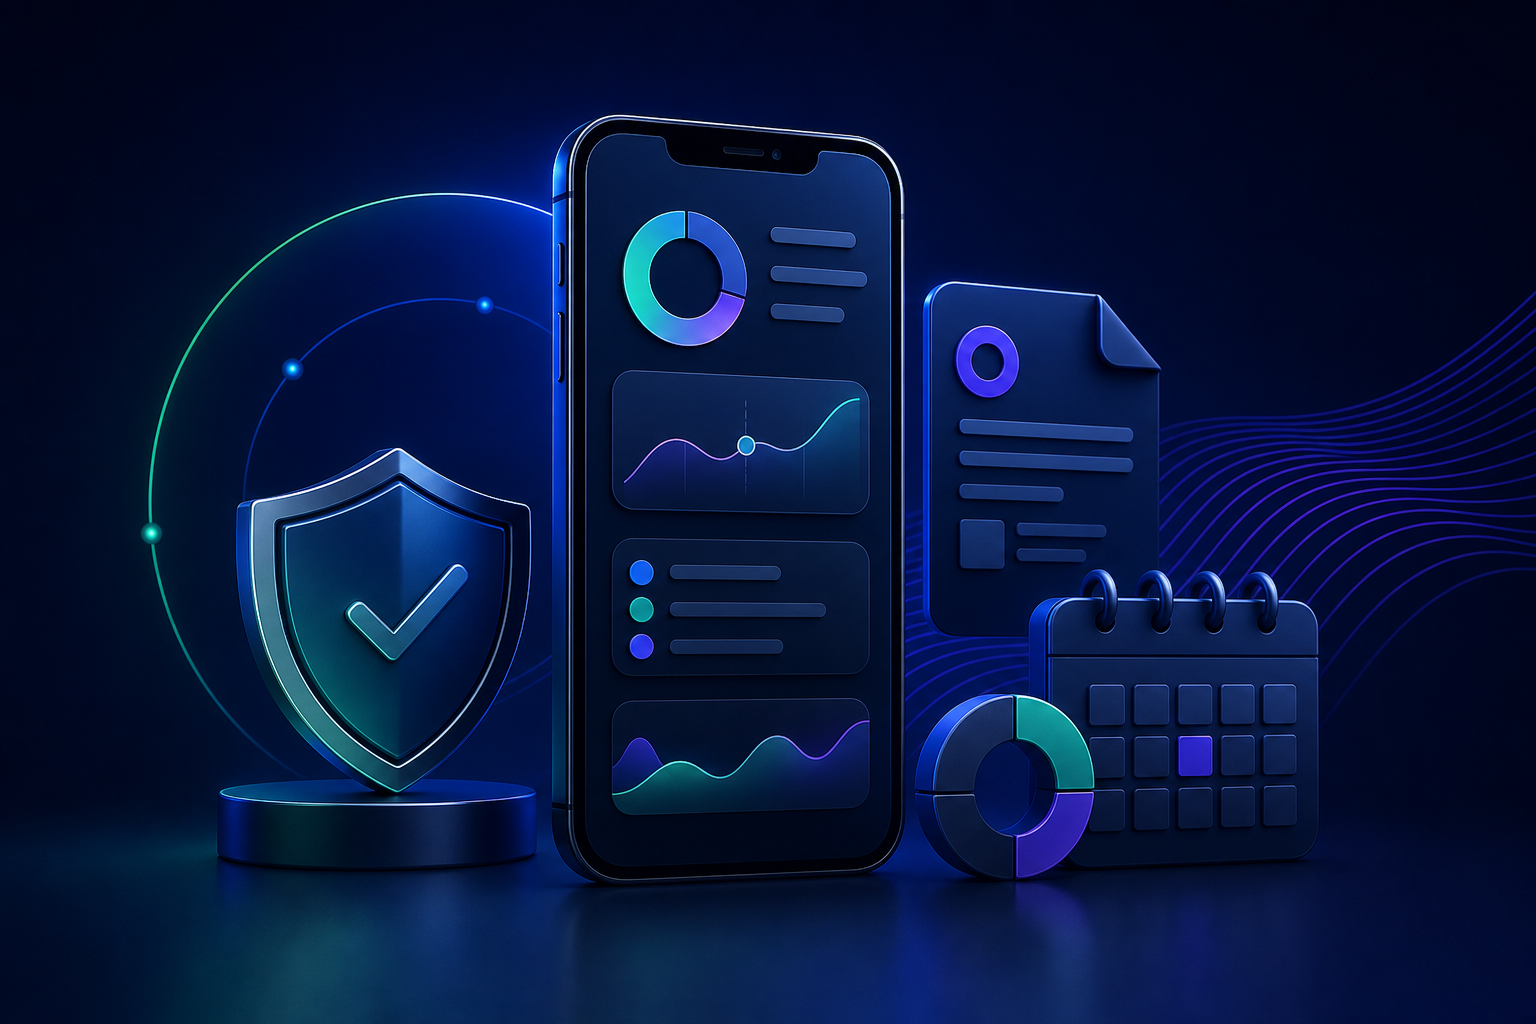
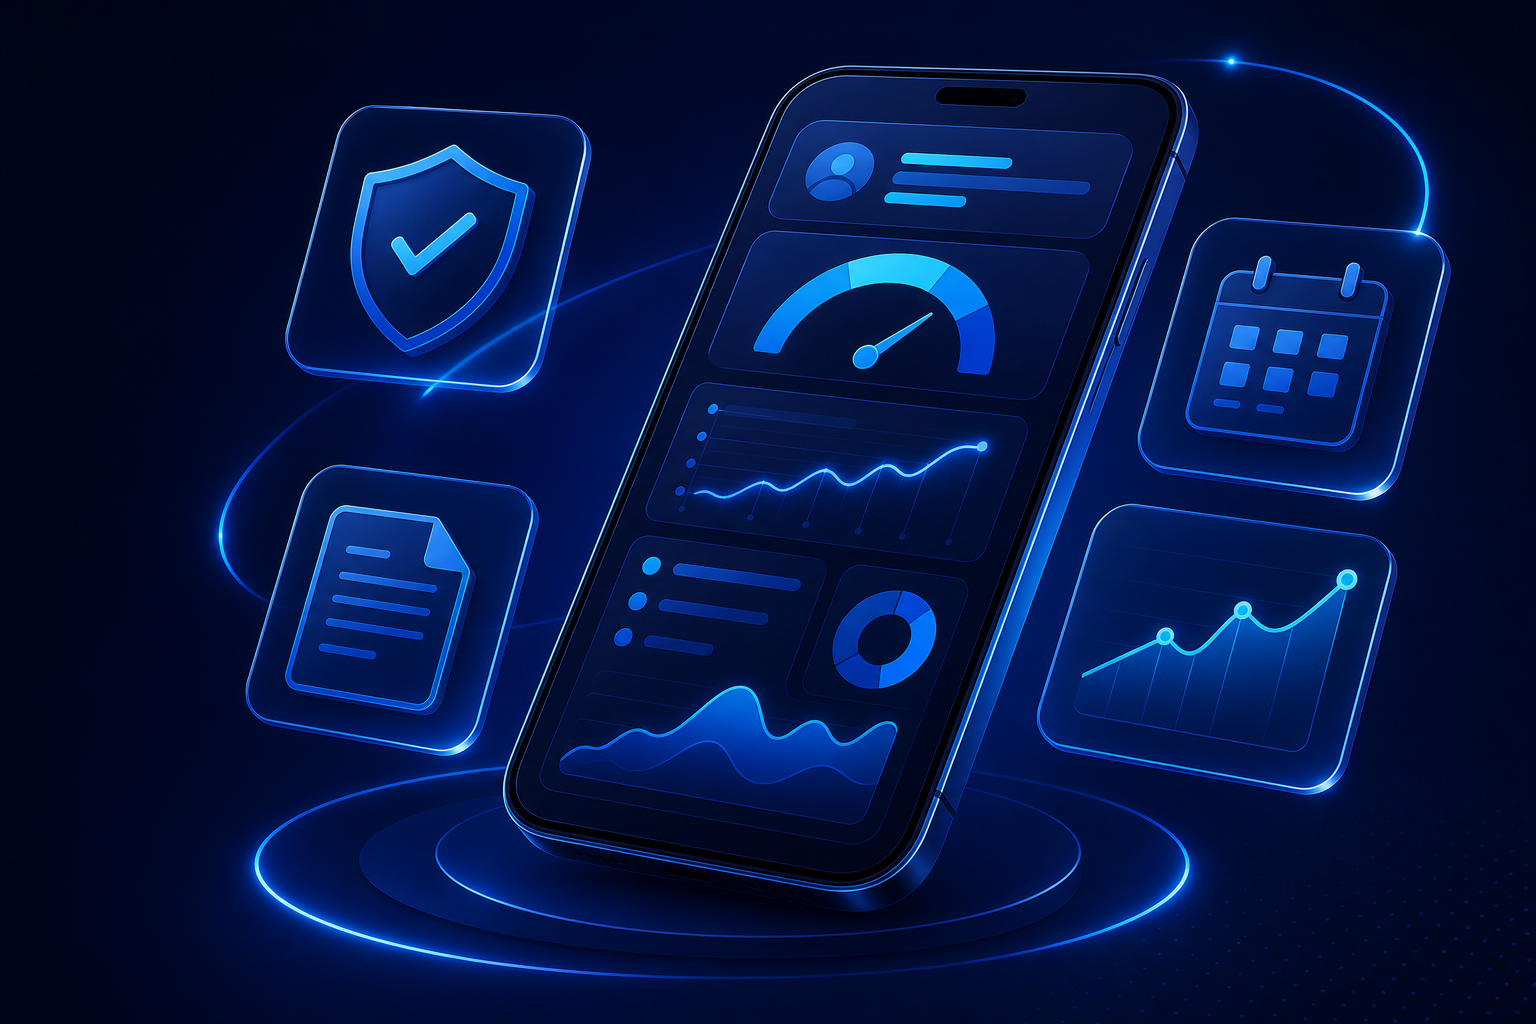
fatia 7a correção da tela

diff --git a/agilbank-frontend/public/banco/indique-ganhe.html b/agilbank-frontend/public/banco/indique-ganhe.html
@@ -101,6 +101,62 @@
       padding: 12px 12px calc(28px + env(safe-area-inset-bottom, 0px));
     }
 
+    .ig-cover {
+      position: relative;
+      width: 100%;
+      min-height: calc(100dvh - 70px);
+      display: flex;
+      align-items: center;
+      justify-content: center;
+      padding: 0 0 12px;
+    }
+
+    .ig-cover__button {
+      width: 100%;
+      border: 0;
+      padding: 0;
+      border-radius: 20px;
+      background: #070716;
+      overflow: hidden;
+      box-shadow: 0 16px 36px rgba(29, 8, 76, 0.28);
+      cursor: pointer;
+      line-height: 0;
+      -webkit-tap-highlight-color: rgba(159, 82, 255, 0.18);
+    }
+
+    .ig-cover__button:focus-visible {
+      outline: 3px solid rgba(159, 82, 255, 0.78);
+      outline-offset: 3px;
+    }
+
+    .ig-cover__image {
+      display: block;
+      width: 100%;
+      max-height: calc(100dvh - 92px);
+      object-fit: contain;
+      background: #070716;
+    }
+
+    .ig-cover__hint {
+      position: absolute;
+      left: 50%;
+      bottom: 22px;
+      transform: translateX(-50%);
+      display: inline-flex;
+      align-items: center;
+      gap: 8px;
+      min-height: 34px;
+      padding: 8px 12px;
+      border-radius: 999px;
+      background: rgba(255, 255, 255, 0.94);
+      color: #2d174f;
+      font-size: 0.78rem;
+      font-weight: 800;
+      box-shadow: 0 8px 20px rgba(0, 0, 0, 0.22);
+      pointer-events: none;
+      white-space: nowrap;
+    }
+
     .ig-hero {
       position: relative;
       overflow: hidden;
@@ -351,14 +407,14 @@
       color: #c47e00;
     }
 
+    .ig-share-panel {
+      scroll-margin-top: 76px;
+    }
+
     .ig-actions {
-      position: sticky;
-      bottom: 0;
       display: grid;
       gap: 8px;
-      margin: 14px -12px calc(-28px - env(safe-area-inset-bottom, 0px));
-      padding: 12px 12px calc(12px + env(safe-area-inset-bottom, 0px));
-      background: linear-gradient(180deg, rgba(237, 242, 247, 0), rgba(237, 242, 247, 0.96) 24%, #edf2f7 100%);
+      margin-top: 12px;
     }
 
     .ig-button {
@@ -417,7 +473,6 @@
     @media (min-width: 430px) {
       .ig-main { padding-left: 16px; padding-right: 16px; }
       .ig-title { font-size: 1.55rem; }
-      .ig-actions { margin-left: -16px; margin-right: -16px; padding-left: 16px; padding-right: 16px; }
     }
   </style>
 </head>
@@ -435,6 +490,21 @@
     </header>
 
     <main class="ig-main">
+      <section class="ig-cover" aria-label="Convite Indique e Ganhe">
+        <button type="button" class="ig-cover__button" id="igCoverBtn" aria-label="Abrir tela de compartilhamento do Indique e Ganhe">
+          <img
+            class="ig-cover__image"
+            src="img/indique-ganhe-story.png?v=20260518"
+            alt="Indique e ganhe. Convide seus amigos e receba recompensas a cada indicação válida."
+            fetchpriority="high"
+            decoding="async">
+        </button>
+        <span class="ig-cover__hint">
+          <i class="fas fa-hand-pointer" aria-hidden="true"></i>
+          Toque para compartilhar
+        </span>
+      </section>
+
       <section class="ig-hero" aria-label="Indique amigos para o AgilBank">
         <img
           class="ig-hero__image"
@@ -512,7 +582,7 @@
         </div>
       </section>
 
-      <section class="ig-panel" aria-labelledby="igStatusTitle">
+      <section class="ig-panel ig-share-panel" id="igSharePanel" aria-labelledby="igStatusTitle">
         <h2 class="ig-section-title" id="igStatusTitle">Status do convite</h2>
         <div class="ig-status">
           <i class="fas fa-circle-info" aria-hidden="true"></i>
@@ -583,6 +653,15 @@
       document.getElementById('igBack').addEventListener('click', function () {
         if (window.history.length > 1) window.history.back();
         else window.location.href = 'index.html';
+      });
+
+      document.getElementById('igCoverBtn').addEventListener('click', function () {
+        var panel = document.getElementById('igSharePanel');
+        if (panel) panel.scrollIntoView({ behavior: 'smooth', block: 'start' });
+        window.setTimeout(function () {
+          var share = document.getElementById('igShareBtn');
+          if (share) share.focus({ preventScroll: true });
+        }, 420);
       });
 
       document.getElementById('igShareBtn').addEventListener('click', function () {

diff --git a/agilbank-frontend/public/banco/css/style.consignado-fgts.css b/agilbank-frontend/public/banco/css/style.consignado-fgts.css
@@ -1,13 +1,18 @@
 :root {
-  --ab-bg: #121212;
-  --ab-panel: #1b1b1e;
-  --ab-panel-2: #242428;
-  --ab-line: #36363a;
-  --ab-text: #f4f4f7;
-  --ab-muted: #b9b9c0;
-  --ab-orange: #f57c00;
-  --ab-orange-2: #ff8a00;
-  --ab-disabled: #3a3840;
+  /* Paleta AgilBank / FATIA 7A — visual azul (sem laranja dominante) */
+  --ab-bg: #0a1628;
+  --ab-panel: #0f1f35;
+  --ab-panel-2: #152a45;
+  --ab-line: rgba(56, 189, 248, 0.18);
+  --ab-text: #f1f5f9;
+  --ab-muted: #64748b;
+  --ab-primary: #2563eb;
+  --ab-primary-2: #1e63ff;
+  --ab-cyan: #38bdf8;
+  --ab-soft: #eaf1ff;
+  --ab-ink: #102033;
+  --ab-green-accent: #22c55e;
+  --ab-disabled: #334155;
 }
 
 * {
@@ -17,7 +22,7 @@
 body.ab-fgts-page {
   margin: 0;
   min-height: 100vh;
-  background: var(--ab-bg);
+  background: linear-gradient(180deg, var(--ab-bg) 0%, #060d18 100%);
   color: var(--ab-text);
   font-family: Arial, Helvetica, sans-serif;
 }
@@ -44,8 +49,8 @@ input {
   align-items: center;
   gap: 8px;
   padding: 12px 18px;
-  background: #1a1a1d;
-  border-bottom: 1px solid rgba(255, 255, 255, 0.04);
+  background: linear-gradient(90deg, #0a1628 0%, #0f2140 50%, #0a1628 100%);
+  border-bottom: 1px solid rgba(56, 189, 248, 0.12);
 }
 
 .ab-fgts-topbar h1 {
@@ -62,7 +67,7 @@ input {
   height: 44px;
   border: 0;
   background: transparent;
-  color: var(--ab-orange);
+  color: var(--ab-cyan);
   font-size: 34px;
   line-height: 1;
   cursor: pointer;
@@ -106,7 +111,7 @@ input {
 }
 
 .ab-fgts-tab.is-active {
-  color: var(--ab-orange);
+  color: var(--ab-cyan);
 }
 
 .ab-fgts-tab.is-active::after {
@@ -117,7 +122,7 @@ input {
   bottom: -1px;
   height: 4px;
   border-radius: 999px;
-  background: var(--ab-orange);
+  background: linear-gradient(90deg, var(--ab-primary-2), var(--ab-cyan));
 }
 
 .ab-fgts-product-switch {
@@ -154,8 +159,8 @@ input {
 }
 
 .ab-fgts-product.is-active {
-  border-color: rgba(245, 124, 0, 0.8);
-  box-shadow: inset 0 0 0 1px rgba(245, 124, 0, 0.24);
+  border-color: rgba(37, 99, 235, 0.85);
+  box-shadow: inset 0 0 0 1px rgba(56, 189, 248, 0.28);
 }
 
 .ab-fgts-hero-wrap {
@@ -179,8 +184,8 @@ input {
   margin: 0 0 20px;
   padding: 14px 16px;
   border-radius: 12px;
-  border: 1px solid rgba(201, 162, 39, 0.55);
-  background: rgba(42, 36, 24, 0.95);
+  border: 1px solid rgba(56, 189, 248, 0.45);
+  background: rgba(10, 22, 40, 0.96);
   color: #f4f4f7;
   font-size: 15px;
   line-height: 1.45;
@@ -189,7 +194,7 @@ input {
 .ab-fgts-disclaimer-critical strong {
   display: block;
   margin-bottom: 6px;
-  color: #ffd666;
+  color: var(--ab-cyan);
 }
 
 .ab-fgts-copy--honest h2 {
@@ -315,11 +320,12 @@ input {
 }
 
 .ab-fgts-btn--primary {
-  background: var(--ab-orange);
+  background: linear-gradient(135deg, var(--ab-primary-2) 0%, var(--ab-primary) 100%);
   color: #ffffff;
   display: flex;
   align-items: center;
   justify-content: center;
+  box-shadow: 0 8px 24px rgba(37, 99, 235, 0.28);
 }
 
 .ab-fgts-actions .ab-fgts-btn--primary {
@@ -328,8 +334,8 @@ input {
 
 .ab-fgts-btn--outline {
   background: transparent;
-  color: var(--ab-orange);
-  border-color: rgba(245, 124, 0, 0.7);
+  color: var(--ab-cyan);
+  border-color: rgba(56, 189, 248, 0.55);
 }
 
 .ab-fgts-btn:disabled {
@@ -354,8 +360,8 @@ input {
   width: 52px;
   height: 52px;
   border-radius: 50%;
-  border: 6px solid rgba(245, 124, 0, 0.22);
-  border-top-color: var(--ab-orange-2);
+  border: 6px solid rgba(37, 99, 235, 0.2);
+  border-top-color: var(--ab-cyan);
   animation: abFgtsSpin 0.85s linear infinite;
 }
 
@@ -376,7 +382,7 @@ input {
   width: 92px;
   height: 92px;
   border-radius: 20px;
-  background: linear-gradient(135deg, #0072bc 0%, #0072bc 68%, #ff8a00 69%);
+  background: linear-gradient(135deg, #0a1628 0%, var(--ab-primary) 55%, var(--ab-cyan) 100%);
   display: grid;
   place-items: center;
   color: #fff;
@@ -456,7 +462,7 @@ input {
 }
 
 .ab-fgts-form-card input:focus {
-  box-shadow: 0 0 0 2px rgba(245, 124, 0, 0.52);
+  box-shadow: 0 0 0 2px rgba(56, 189, 248, 0.55);
 }
 
 .ab-fgts-form-card span {
@@ -503,7 +509,7 @@ input {
 .ab-fgts-info-card button {
   border: 0;
   background: transparent;
-  color: var(--ab-orange);
+  color: var(--ab-cyan);
   padding: 0;
   font-weight: 900;
   text-decoration: underline;
@@ -532,7 +538,7 @@ input {
 .ab-fgts-result-card strong {
   display: block;
   margin: 12px 0 18px;
-  color: var(--ab-orange);
+  color: var(--ab-primary-2);
   font-size: 42px;
 }
 
@@ -564,7 +570,7 @@ input {
   position: relative;
   min-height: 150px;
   border-radius: 0;
-  background: linear-gradient(100deg, #f57c00 0%, #f57c00 48%, #fff0de 49%);
+  background: linear-gradient(100deg, #0a1628 0%, #1e4a8e 46%, var(--ab-soft) 50%);
   margin-bottom: 56px;
   overflow: hidden;
 }
@@ -586,10 +592,11 @@ input {
 .ab-fgts-video-copy strong {
   margin-top: 18px;
   font-size: 18px;
-  color: #7b4b17;
-  background: #ffe3c0;
+  color: var(--ab-ink);
+  background: rgba(234, 241, 255, 0.95);
   width: max-content;
   padding: 5px 12px;
+  border-radius: 8px;
 }
 
 .ab-fgts-play {
@@ -600,7 +607,7 @@ input {
   height: 76px;
   border-radius: 50%;
   border: 0;
-  background: rgba(93, 57, 20, 0.72);
+  background: rgba(10, 22, 40, 0.78);
   color: #fff;
   font-size: 34px;
   cursor: pointer;